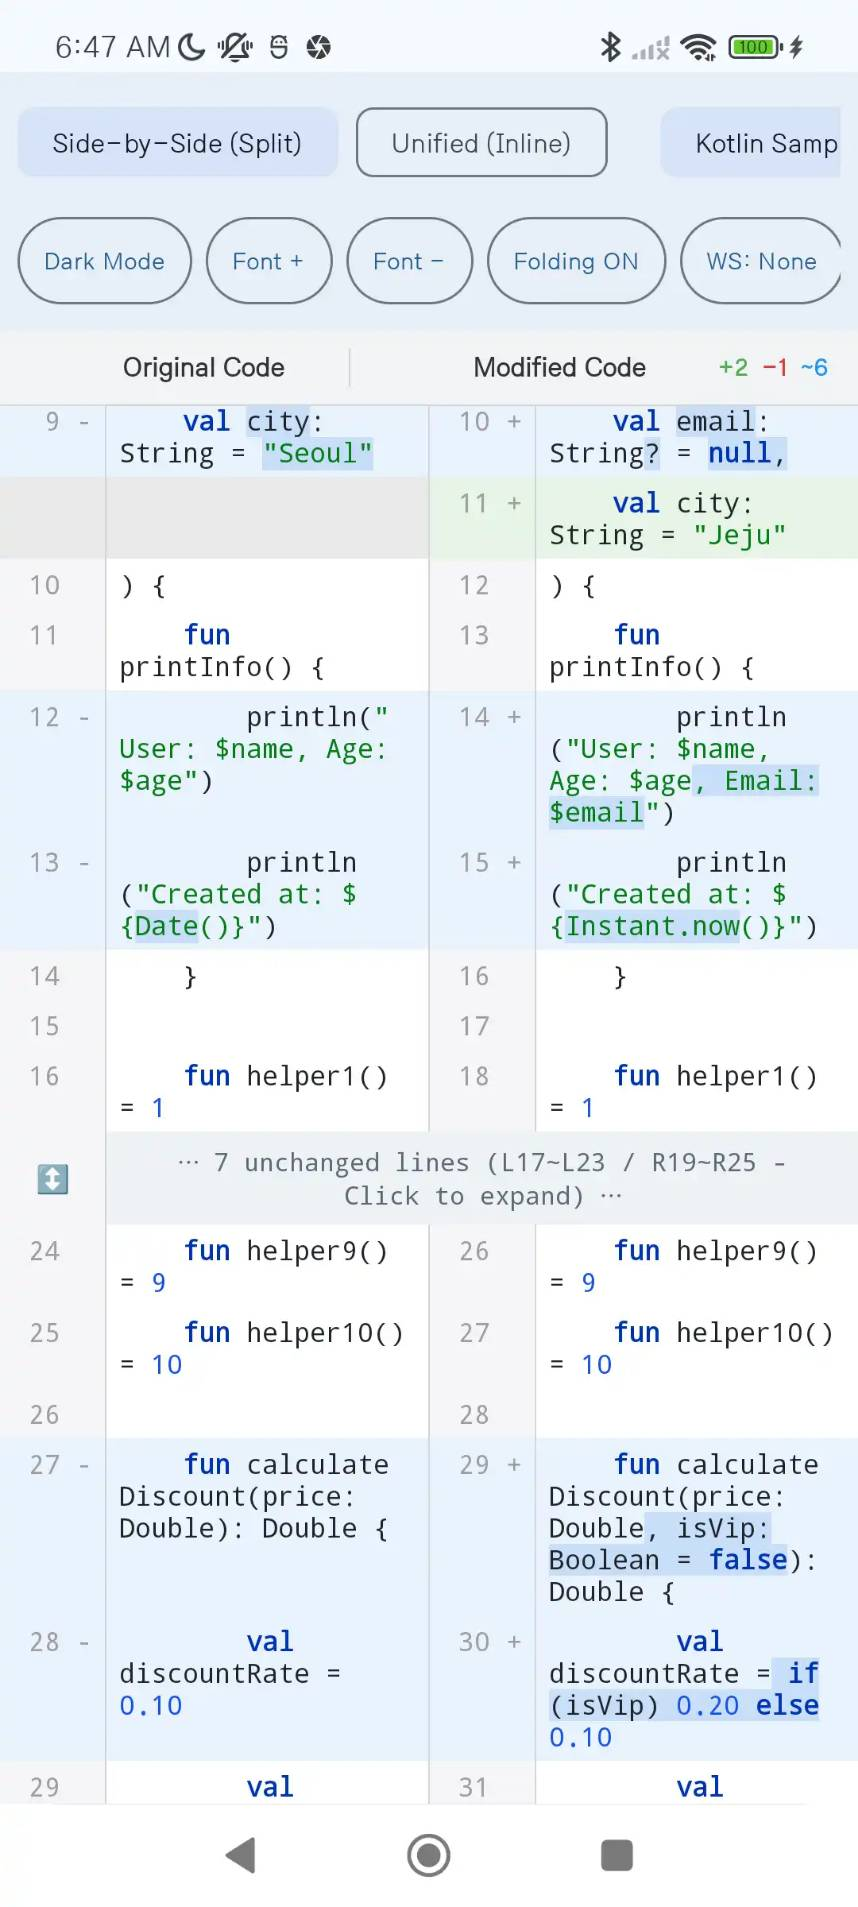
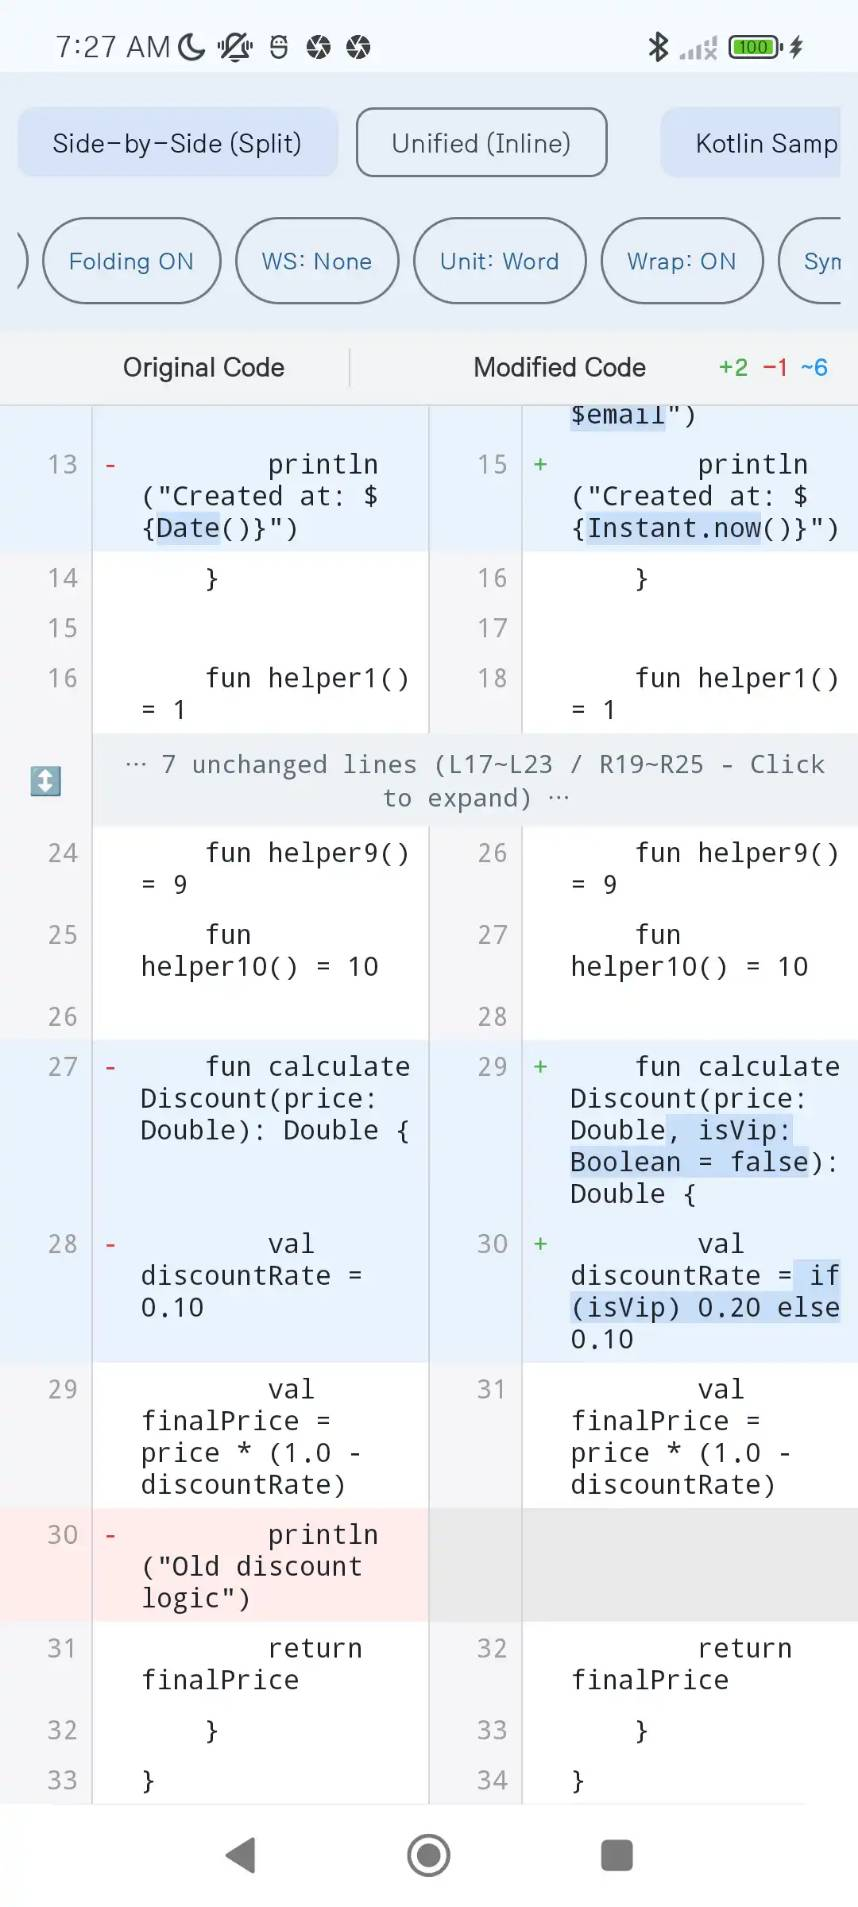
- , + 기호를 Text 왼쪽에 배치하기

diff --git a/diffview/src/main/java/com/mdiwebma/diffview/DiffViewAdapter.kt b/diffview/src/main/java/com/mdiwebma/diffview/DiffViewAdapter.kt
@@ -89,7 +89,7 @@ class DiffViewAdapter(
             notifyDataSetChanged()
         }
 
-    var gutterWidthDp: Int = 48
+    var gutterWidthDp: Int = 42
         set(value) {
             if (field != value) {
                 field = value
@@ -199,12 +199,14 @@ class DiffRowViewHolder(
     private val leftContainer: LinearLayout,
     private val leftGutterText: TextView,
     private val leftGutterDivider: View,
+    private val leftPrefixText: TextView,
     private val leftScrollView: SyncHorizontalScrollView,
     private val leftCodeText: TextView,
     private val centerDivider: View,
     private val rightContainer: LinearLayout,
     private val rightGutterText: TextView,
     private val rightGutterDivider: View,
+    private val rightPrefixText: TextView,
     private val rightScrollView: SyncHorizontalScrollView,
     private val rightCodeText: TextView,
     private val leftSyncGroup: HorizontalScrollSyncGroup,
@@ -257,22 +259,32 @@ class DiffRowViewHolder(
         }
 
         val gutterGravity = if (isLineWrap) Gravity.END or Gravity.TOP else Gravity.END or Gravity.CENTER_VERTICAL
+        val prefixGravity = if (isLineWrap) Gravity.CENTER_HORIZONTAL or Gravity.TOP else Gravity.CENTER
         leftGutterText.gravity = gutterGravity
         rightGutterText.gravity = gutterGravity
+        leftPrefixText.gravity = prefixGravity
+        rightPrefixText.gravity = prefixGravity
 
         leftGutterText.setTextSize(TypedValue.COMPLEX_UNIT_SP, textSizeSp)
-        leftCodeText.setTextSize(TypedValue.COMPLEX_UNIT_SP, textSizeSp)
         rightGutterText.setTextSize(TypedValue.COMPLEX_UNIT_SP, textSizeSp)
+        leftPrefixText.setTextSize(TypedValue.COMPLEX_UNIT_SP, textSizeSp)
+        rightPrefixText.setTextSize(TypedValue.COMPLEX_UNIT_SP, textSizeSp)
+        leftCodeText.setTextSize(TypedValue.COMPLEX_UNIT_SP, textSizeSp)
         rightCodeText.setTextSize(TypedValue.COMPLEX_UNIT_SP, textSizeSp)
 
-        centerDivider.setBackgroundColor(colors.dividerColor)
         leftGutterDivider.setBackgroundColor(colors.dividerColor)
+        centerDivider.setBackgroundColor(colors.dividerColor)
         rightGutterDivider.setBackgroundColor(colors.dividerColor)
 
         val leftBg = when (row.type) {
             DiffRowType.DELETED -> colors.deletedBackground
             DiffRowType.MODIFIED -> colors.modifiedBackground
             else -> colors.unchangedBackground
+        }
+        val leftGutterBg = when (row.type) {
+            DiffRowType.DELETED -> colors.deletedBackground
+            DiffRowType.MODIFIED -> colors.modifiedBackground
+            else -> colors.lineNumberBackground
         }
         val leftHighlightBg = when (row.type) {
             DiffRowType.DELETED -> colors.deletedHighlight
@@ -285,35 +297,28 @@ class DiffRowViewHolder(
             DiffRowType.MODIFIED -> colors.modifiedBackground
             else -> colors.unchangedBackground
         }
+        val rightGutterBg = when (row.type) {
+            DiffRowType.INSERTED -> colors.addedBackground
+            DiffRowType.MODIFIED -> colors.modifiedBackground
+            else -> colors.lineNumberBackground
+        }
         val rightHighlightBg = when (row.type) {
             DiffRowType.INSERTED -> colors.addedHighlight
             DiffRowType.MODIFIED -> colors.modifiedHighlight
             else -> Color.TRANSPARENT
         }
 
-        val leftGutterBg = when (row.type) {
-            DiffRowType.DELETED -> colors.deletedBackground
-            DiffRowType.MODIFIED -> colors.modifiedBackground
-            else -> colors.lineNumberBackground
-        }
-
-        val rightGutterBg = when (row.type) {
-            DiffRowType.INSERTED -> colors.addedBackground
-            DiffRowType.MODIFIED -> colors.modifiedBackground
-            else -> colors.lineNumberBackground
-        }
-
-        val leftSymbol = if (showDiffSymbols) {
+        val leftSymbol = if (row.left != null) {
             when (row.type) {
-                DiffRowType.DELETED, DiffRowType.MODIFIED -> " -"
-                else -> "  "
+                DiffRowType.DELETED, DiffRowType.MODIFIED -> "-"
+                else -> " "
             }
         } else ""
 
-        val rightSymbol = if (showDiffSymbols) {
+        val rightSymbol = if (row.right != null) {
             when (row.type) {
-                DiffRowType.INSERTED, DiffRowType.MODIFIED -> " +"
-                else -> "  "
+                DiffRowType.INSERTED, DiffRowType.MODIFIED -> "+"
+                else -> " "
             }
         } else ""
 
@@ -321,6 +326,7 @@ class DiffRowViewHolder(
             line = row.left,
             container = leftContainer,
             gutterText = leftGutterText,
+            prefixText = leftPrefixText,
             codeText = leftCodeText,
             bgColor = leftBg,
             gutterBgColor = leftGutterBg,
@@ -329,6 +335,7 @@ class DiffRowViewHolder(
             highlighter = highlighter,
             isDark = isDark,
             isLineWrap = isLineWrap,
+            showDiffSymbols = showDiffSymbols,
             sideLabel = "Original",
             symbol = leftSymbol
         )
@@ -337,6 +344,7 @@ class DiffRowViewHolder(
             line = row.right,
             container = rightContainer,
             gutterText = rightGutterText,
+            prefixText = rightPrefixText,
             codeText = rightCodeText,
             bgColor = rightBg,
             gutterBgColor = rightGutterBg,
@@ -345,6 +353,7 @@ class DiffRowViewHolder(
             highlighter = highlighter,
             isDark = isDark,
             isLineWrap = isLineWrap,
+            showDiffSymbols = showDiffSymbols,
             sideLabel = "Modified",
             symbol = rightSymbol
         )
@@ -354,6 +363,7 @@ class DiffRowViewHolder(
         line: DiffLine?,
         container: LinearLayout,
         gutterText: TextView,
+        prefixText: TextView,
         codeText: TextView,
         bgColor: Int,
         gutterBgColor: Int,
@@ -362,16 +372,38 @@ class DiffRowViewHolder(
         highlighter: SyntaxHighlighter,
         isDark: Boolean,
         isLineWrap: Boolean,
+        showDiffSymbols: Boolean,
         sideLabel: String,
         symbol: String = ""
     ) {
+        val density = container.context.resources.displayMetrics.density
+        val padHorizontalPx = (6 * density).toInt()
+        val padVerticalPx = (3 * density).toInt()
+        val codePadLeft = if (showDiffSymbols) (2 * density).toInt() else padHorizontalPx
+        codeText.setPadding(codePadLeft, padVerticalPx, padHorizontalPx, padVerticalPx)
+
+        if (showDiffSymbols) {
+            prefixText.visibility = View.VISIBLE
+            prefixText.text = symbol
+            prefixText.setTextColor(
+                when (symbol) {
+                    "-" -> Color.parseColor("#E53935")
+                    "+" -> Color.parseColor("#4CAF50")
+                    else -> colors.lineNumberTextColor
+                }
+            )
+        } else {
+            prefixText.visibility = View.GONE
+            prefixText.text = ""
+        }
+
         if (line != null) {
             container.setBackgroundColor(bgColor)
             gutterText.setBackgroundColor(gutterBgColor)
+            prefixText.setBackgroundColor(bgColor)
             gutterText.setTextColor(colors.lineNumberTextColor)
             codeText.setTextColor(colors.codeTextColor)
-            val lineNum = line.lineNumber?.toString() ?: ""
-            gutterText.text = if (lineNum.isNotEmpty()) "$lineNum$symbol" else ""
+            gutterText.text = line.lineNumber?.toString() ?: ""
             val highlighted = highlighter.highlight(
                 spans = line.spans,
                 defaultTextColor = colors.codeTextColor,
@@ -383,6 +415,7 @@ class DiffRowViewHolder(
         } else {
             container.setBackgroundColor(colors.noneTextBackground)
             gutterText.setBackgroundColor(colors.noneTextBackground)
+            prefixText.setBackgroundColor(colors.noneTextBackground)
             gutterText.setTextColor(colors.lineNumberTextColor)
             codeText.setTextColor(colors.codeTextColor)
             gutterText.text = ""
@@ -403,6 +436,7 @@ class DiffRowViewHolder(
             val dividerPx = (1 * density).toInt().coerceAtLeast(1)
             val padHorizontalPx = (6 * density).toInt()
             val padVerticalPx = (3 * density).toInt()
+            val prefixPx = (16 * density).toInt()
 
             val rootLayout = LinearLayout(context).apply {
                 layoutParams = RecyclerView.LayoutParams(
@@ -429,6 +463,12 @@ class DiffRowViewHolder(
             val leftGutterDivider = View(context).apply {
                 layoutParams = LinearLayout.LayoutParams(dividerPx, ViewGroup.LayoutParams.MATCH_PARENT)
             }
+            val leftPrefixText = TextView(context).apply {
+                layoutParams = LinearLayout.LayoutParams(prefixPx, ViewGroup.LayoutParams.MATCH_PARENT)
+                gravity = Gravity.CENTER
+                typeface = Typeface.MONOSPACE
+                setPadding(0, padVerticalPx, 0, padVerticalPx)
+            }
             val leftCodeText = TextView(context).apply {
                 layoutParams = FrameLayout.LayoutParams(
                     ViewGroup.LayoutParams.WRAP_CONTENT,
@@ -448,6 +488,7 @@ class DiffRowViewHolder(
             }
             leftContainer.addView(leftGutterText)
             leftContainer.addView(leftGutterDivider)
+            leftContainer.addView(leftPrefixText)
             leftContainer.addView(leftScrollView)
 
             val centerDivider = View(context).apply {
@@ -469,6 +510,12 @@ class DiffRowViewHolder(
             val rightGutterDivider = View(context).apply {
                 layoutParams = LinearLayout.LayoutParams(dividerPx, ViewGroup.LayoutParams.MATCH_PARENT)
             }
+            val rightPrefixText = TextView(context).apply {
+                layoutParams = LinearLayout.LayoutParams(prefixPx, ViewGroup.LayoutParams.MATCH_PARENT)
+                gravity = Gravity.CENTER
+                typeface = Typeface.MONOSPACE
+                setPadding(0, padVerticalPx, 0, padVerticalPx)
+            }
             val rightCodeText = TextView(context).apply {
                 layoutParams = FrameLayout.LayoutParams(
                     ViewGroup.LayoutParams.WRAP_CONTENT,
@@ -488,6 +535,7 @@ class DiffRowViewHolder(
             }
             rightContainer.addView(rightGutterText)
             rightContainer.addView(rightGutterDivider)
+            rightContainer.addView(rightPrefixText)
             rightContainer.addView(rightScrollView)
 
             rootLayout.addView(leftContainer)
@@ -499,12 +547,14 @@ class DiffRowViewHolder(
                 leftContainer = leftContainer,
                 leftGutterText = leftGutterText,
                 leftGutterDivider = leftGutterDivider,
+                leftPrefixText = leftPrefixText,
                 leftScrollView = leftScrollView,
                 leftCodeText = leftCodeText,
                 centerDivider = centerDivider,
                 rightContainer = rightContainer,
                 rightGutterText = rightGutterText,
                 rightGutterDivider = rightGutterDivider,
+                rightPrefixText = rightPrefixText,
                 rightScrollView = rightScrollView,
                 rightCodeText = rightCodeText,
                 leftSyncGroup = leftSyncGroup,

diff --git a/app/src/main/java/com/mdiwebma/diffview_demo/MainActivity.kt b/app/src/main/java/com/mdiwebma/diffview_demo/MainActivity.kt
@@ -13,10 +13,6 @@ import androidx.appcompat.app.AlertDialog
 import androidx.appcompat.app.AppCompatActivity
 import androidx.lifecycle.lifecycleScope
 import com.mdiwebma.diffview.DiffView
-import com.mdiwebma.diffview.KotlinSyntaxHighlighter
-import com.mdiwebma.diffview.model.DiffGranularity
-import com.mdiwebma.diffview.model.DiffMode
-import com.mdiwebma.diffview.model.WhitespaceIgnoreMode
 import kotlinx.coroutines.Dispatchers
 import kotlinx.coroutines.launch
 import kotlinx.coroutines.withContext
@@ -72,19 +68,19 @@ class MainActivity : AppCompatActivity() {
         diffView = findViewById(R.id.diffview)
 
         // Basic DiffView configuration
-        diffView.setDiffMode(DiffMode.SIDE_BY_SIDE)
-        diffView.setFoldingEnabled(enabled = true, contextLines = 3, threshold = 8)
-        diffView.setWhitespaceIgnoreMode(WhitespaceIgnoreMode.NONE)
-        diffView.setDiffGranularity(DiffGranularity.WORD)
-        diffView.setLineWrap(false)
-        diffView.setTextSize(13f)
-        diffView.setSyntaxHighlighter(KotlinSyntaxHighlighter())
+//        diffView.setDiffMode(DiffMode.SIDE_BY_SIDE)
+//        diffView.setFoldingEnabled(enabled = true, contextLines = 3, threshold = 8)
+//        diffView.setWhitespaceIgnoreMode(WhitespaceIgnoreMode.NONE)
+//        diffView.setDiffGranularity(DiffGranularity.WORD)
+//        diffView.setLineWrap(true)
+//        diffView.setTextSize(13f)
+//        diffView.setSyntaxHighlighter(KotlinSyntaxHighlighter())
         //diffView.setShowDiffSymbols(false)
         //diffView.setGutterWidthDp(55)
         //diffView.setTextIsSelectable(true)
 
         // Show initial sample code
-        diffView.setHeaderTitles("MainActivity.kt (Old)", "MainActivity.kt (New)")
+        //diffView.setHeaderTitles("MainActivity.kt (Old)", "MainActivity.kt (New)")
         diffView.setContent(original = SAMPLE_ORIGINAL, modified = SAMPLE_MODIFIED)
 //        diffView.expandAll()
 

diff --git a/README.md b/README.md
@@ -53,6 +53,7 @@ Android Studio Diff Editor 스타일의 **Side-by-Side (Split) & Unified DiffVie
 ![Screenshot1](screenshot1.jpg)
 ![Screenshot2](screenshot2.jpg)
 ![Screenshot3](screenshot3.jpg)
+![Screenshot4](screenshot4.jpg)
 
 ---
 
@@ -186,7 +187,7 @@ diffView.setDiffLabels(
 // 12. 줄 번호 옆 변경 기호(- / +) 표시 설정 (기본값: true)
 diffView.setShowDiffSymbols(true)
 
-// 13. 줄 번호(Gutter) 영역 너비 조절 (DP 단위, 기본값: 48)
+// 13. 줄 번호(Gutter) 영역 너비 조절 (DP 단위, 기본값: 42)
 diffView.setGutterWidthDp(50)
 
 // 14. 텍스트 드래그 선택 및 복사 활성화 여부 (기본값: false)
